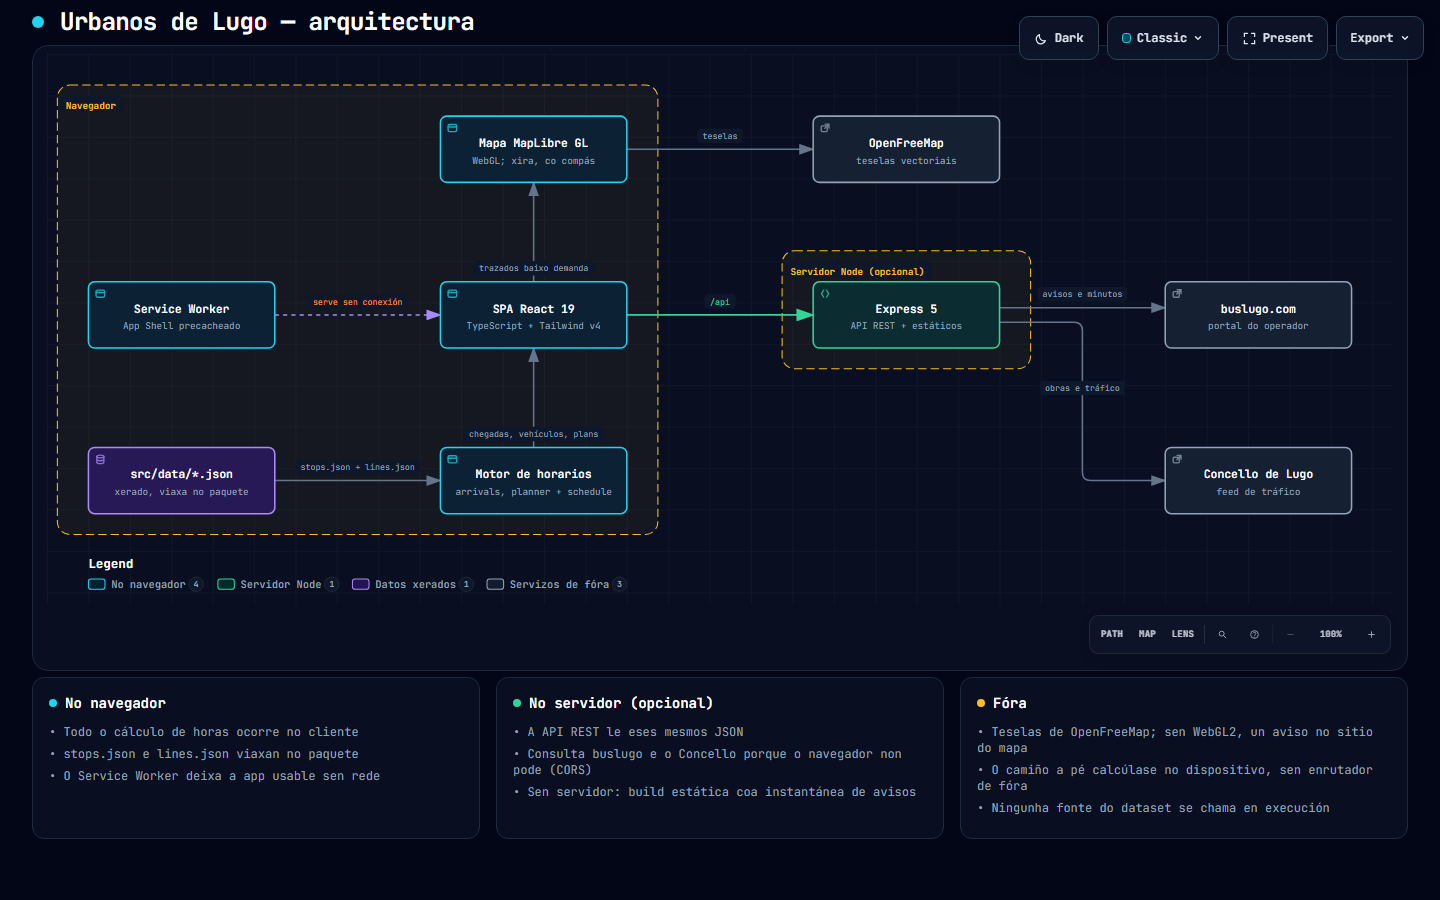
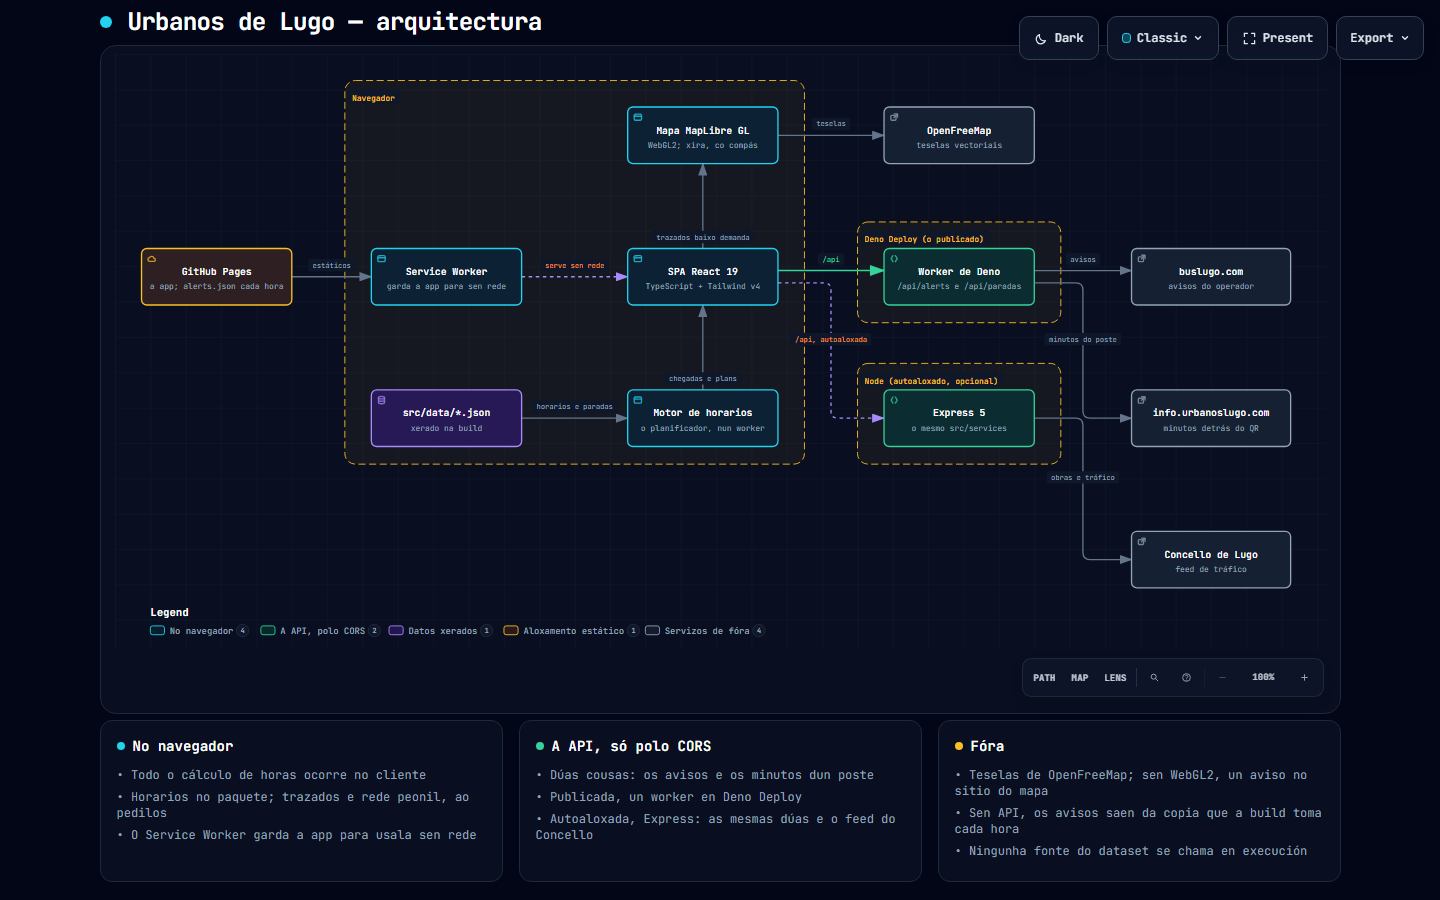
The README's three diagrams draw what the code does again
The architecture diagram showed only Express, while the published site asks a Deno Deploy
worker for /api; it put the pole's minutes on buslugo.com, which come from
info.urbanoslugo.com; and it had both servers reading the council's feed, which only
Express does. Redrawn: GitHub Pages serving the app and the hourly notices copy, the
browser with the planner in its worker, and the published and self-hosted APIs with the
sources each one reads.

The data diagram now says where every file in src/data/ comes from, the walking network
included (Overpass and the IGN's MDT05 through importWalkNetwork and importElevation to
buildWalkGraph); the map style and the hand-written files are in its cards, and the
notices snapshot is public/alerts.json, not src/data/. The timetable diagram's figures are
validate:times' today: 798 stops past the last timing point, extremes of -8.6 and +8.3.

The README's alt texts follow the new drawings, and its architecture paragraph no longer
says the published API reads the council's feed. All three pass archify's showcase
validation and fit a 1440x900 screen; REXISTRO round 76 records the review.

diff --git a/README.md b/README.md
@@ -675,7 +675,7 @@ Non hai datos escritos a man. `stops.json` e `lines.json` xéranse a partir de:
 
 <picture>
   <source media="(prefers-color-scheme: dark)" srcset="docs/diagrams/datos-dark.png">
-  <img src="docs/diagrams/datos-light.png" alt="Diagrama do fluxo de datos: buslugo.com e OSRM alimentan importOfficialData.ts, e Overpass a importOsmRoutes.ts e importStopAmenities.ts; cada un deixa a súa instantánea en data/, e buildDataset.ts constrúe desde aí stops.json, lines.json e route-geometry.json en src/data/.">
+  <img src="docs/diagrams/datos-light.png" alt="Diagrama de onde sae cada ficheiro de src/data/: buslugo.com e OSRM alimentan importOfficialData.ts; Overpass, importOsmRoutes.ts e importStopAmenities.ts; Overpass e o MDT05 do IGN, importWalkNetwork.ts e importElevation.ts. Cada un deixa a súa instantánea en data/ (as alturas, en .cache/), e desde aí buildDataset.ts constrúe stops.json, lines.json e route-geometry.json, e buildWalkGraph.ts walk-network.json.">
 </picture>
 
 O operador **non publica ningún trazado**, só listas de paradas e cadros horarios. Non
@@ -787,15 +787,18 @@ expedicións, as dos tres tipos de día, corra o día que corra). Medidas o 31 d
 
 <picture>
   <source media="(prefers-color-scheme: dark)" srcset="docs/diagrams/arquitectura-dark.png">
-  <img src="docs/diagrams/arquitectura-light.png" alt="Diagrama da arquitectura: no navegador, src/data/*.json alimenta o motor de horarios, e este a SPA de React e o mapa de MapLibre, co Service Worker servindo a app sen conexión; a SPA fala cun servidor Express opcional que consulta buslugo.com e o feed de tráfico do Concello; fóra quedan as teselas de OpenFreeMap.">
+  <img src="docs/diagrams/arquitectura-light.png" alt="Diagrama da arquitectura: GitHub Pages serve a app e a copia de avisos ao navegador, onde o Service Worker a garda para usala sen rede; src/data/*.json alimenta o motor de horarios, co planificador nun worker, e este a SPA de React, que pide os trazados ao mapa de MapLibre, e o mapa as teselas a OpenFreeMap. A SPA pide /api ao worker de Deno Deploy, que le os avisos de buslugo.com e os minutos dun poste de info.urbanoslugo.com; autoaloxada, pídea a Express 5, co mesmo código, que le ademais o feed de tráfico do Concello.">
 </picture>
 
 O reparto que importa é ese: **todo o cálculo de horas ocorre no navegador**, sobre os
-JSON que viaxan no paquete. A app só lle pide ao servidor o que o navegador non pode
-facer por si mesmo —os avisos a buslugo.com e ao Concello, e os minutos dun poste á páxina
-do operador detrás do seu QR, que non serven CORS— e segue funcionando sen el: iso é o
-despregue en GitHub Pages. As outras rutas da [API REST](#api-rest) son para quen as
-queira usar; a app non chama ningunha.
+JSON que viaxan no paquete. A app só lle pide á API o que o navegador non pode facer por
+si mesmo, porque esas páxinas non serven CORS: os avisos de buslugo.com e os minutos dun
+poste na páxina do operador detrás do seu QR. E segue funcionando sen ela. No sitio
+publicado en GitHub Pages, a API é un worker en Deno Deploy (`worker/index.ts`), e sen
+el os avisos saen da copia que a build toma cada hora. Quen a aloxe el mesmo ten Express
+(`server.ts`), co mesmo `src/services`, que ademais le o feed de tráfico do Concello. As
+outras rutas da [API REST](#api-rest) son de Express, para quen as queira usar; a app
+non chama ningunha.
 
 ---
 

diff --git a/design/REXISTRO-probas.md b/design/REXISTRO-probas.md
@@ -5922,3 +5922,56 @@ está.
 
 - `audit:browser` enteiro non se correu nas roldas 72, 73 e 75; nada delas está en
   `develop` remoto.
+
+## Rolda 76: os tres diagramas do README, outra vez fieis — 19 de novembro de 2026
+
+Pedido: revisar os diagramas do README, se seguen sendo fieis e se é o mellor que se pode
+ter. Eran do 28 de outubro, e cada un mirouse contra o código.
+
+### Mirado
+
+- **Arquitectura.** Só tiña Express, e o sitio publicado pide `/api` a un worker en Deno
+  Deploy: era o camiño real o que faltaba. Os minutos do poste poñíaos en buslugo.com, e
+  saen de `info.urbanoslugo.com` (`src/services/operatorTimes.ts`). Debuxaba o feed do
+  Concello como se o lesen os dous, e só o le Express. Tampouco saían a copia de avisos que
+  a build toma cada hora, o planificador nun worker nin os ficheiros que se cargan ao
+  pedilos.
+- **Datos.** Dicía `src/data/alerts.json`, e é `public/alerts.json`. Contaba só de onde
+  saen as paradas, as liñas e os trazados. «48 sentidos, 45 de OSM» segue certo (45 `osm`
+  e 3 `osrm`, contados).
+- **Etiquetas.** A lóxica é a do código, e as cadencias son de 30 e 60 min (contadas).
+  `pnpm run validate:times`: 386 paradas suxeitas aos dous lados (igual), 798 alén do
+  último punto (dicía 797), mediana 0,1 min, e nos extremos −8,6 e +8,3. Dicía «8,3 no
+  peor», e o peor é o adiantado.
+
+### Feito
+
+- **Arquitectura**, debuxada de novo:
+  - GitHub Pages á esquerda serve a app e a copia de avisos.
+  - No navegador, o Service Worker, os datos, o motor (co planificador nun worker), a SPA e
+    o mapa.
+  - Á dereita, o worker de Deno (o publicado) e Express (o autoaloxado), e as súas fontes.
+  - Tres tarxetas: que fai o navegador, que fai a API e por que, e o que vén de fóra.
+- **Datos**: «De onde sae cada ficheiro de src/data/». Engade a rede peonil: Overpass e o
+  MDT05 do IGN → `importWalkNetwork.ts` e `importElevation.ts` →
+  `osm-walk-network.json`, coas alturas en `.cache/mdt` → `buildWalkGraph.ts` →
+  `walk-network.json`. Nas tarxetas, o estilo do mapa (`buildMapStyle.ts`, desde
+  OpenFreeMap) e o que se escribe a man (`festivos.json`, `structuralNotices.ts`). O estilo
+  ía nunha quinta fila, pero a imaxe saía máis alta ca unha pantalla de 1440×900: 1189 px
+  de alto, medido por `visual-check`.
+- **Etiquetas**: só as tres cifras, e que sen API non hai minutos do QR.
+- No README, os tres textos alternativos que describían o debuxo vello, e o parágrafo da
+  arquitectura, que dicía que o Concello o lía a API publicada.
+
+### Comprobado
+
+- `archify validate --quality showcase` en cada un: 9 comprobacións, 0 erros e 0 avisos.
+  Despois, `pnpm run diagrams` co Chrome for Testing 157 de Puppeteer (`ARCHIFY_CHROME`):
+  `deliver` pasa os tres. `visual-check` mide no tema claro que caben sen rolar a 1440×900,
+  1600×1000, 1920×1080 e 2048×1320, e fai as capturas en claro e en escuro.
+- As seis imaxes, miradas unha a unha: nada tapado, e os textos lense nos dous temas.
+- `pnpm run check:policy`: 26.
+
+### Queda
+
+- Nada desta rolda está en `develop` remoto.
